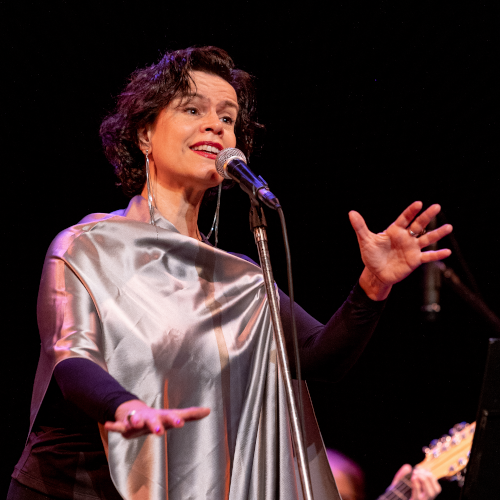
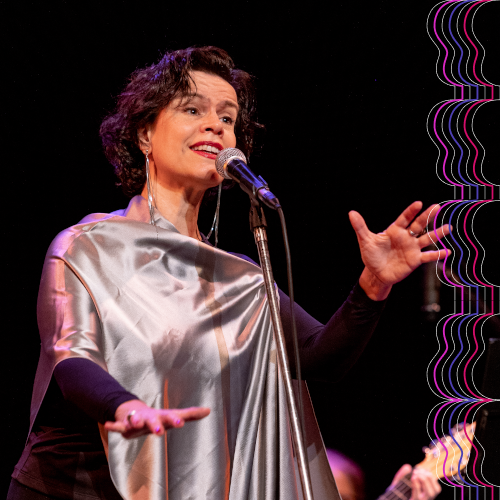
feat: :sparkles: Atualiza elementos gráficos para a nova identidade visual

Changed region(s): [[0.84, 0.0, 1.0, 1.0]]

diff --git a/index.html b/index.html
@@ -12,11 +12,13 @@
     <link rel="stylesheet" href="https://cdnjs.cloudflare.com/ajax/libs/animate.css/3.7.2/animate.min.css" integrity="sha512-doJrC/ocU8VGVRx3O9981+2aYUn3fuWVWvqLi1U+tA2MWVzsw+NVKq1PrENF03M+TYBP92PnYUlXFH1ZW0FpLw==" crossorigin="anonymous" referrerpolicy="no-referrer" />
     <script src="https://cdnjs.cloudflare.com/ajax/libs/wow/1.1.2/wow.min.js" integrity="sha512-Eak/29OTpb36LLo2r47IpVzPBLXnAMPAVypbSZiZ4Qkf8p/7S/XRG5xp7OKWPPYfJT6metI+IORkR5G8F900+g==" crossorigin="anonymous" referrerpolicy="no-referrer"></script>
     <!-- OFV stuff -->
-    <link href="https://fonts.googleapis.com/css2?family=Lato:wght@300;400;700&display=swap" rel="stylesheet">
+    <link rel="preconnect" href="https://fonts.googleapis.com">
+    <link rel="preconnect" href="https://fonts.gstatic.com" crossorigin>
+    <link href="https://fonts.googleapis.com/css2?family=Ubuntu:ital,wght@0,300;0,400;0,500;0,700;1,300;1,400;1,500;1,700&display=swap" rel="stylesheet">
     <link rel="stylesheet" href="ofv.css">
     
     <title>Orquestra Filarmônica de Violas</title>
-    <link rel="icon" type="image/x-icon" href="/img/favicon.ico">
+    <link rel="icon" type="image/png" href="/img/favicon.png">
     <meta name="description" content="Formado apenas por violas e com mais de 20 anos de trajetoria, o grupo tem 3 albuns lançados e é reconhecido por expandir as fronteiras do instrumento.">
     <meta name="keywords" content="orquestra de viola, orquestra de viola caipira, orquestra de viola de Campinas, viola, viola caipira, música caipira, orquestra, música, Ivan Vilela, João Paulo Amaral, Encanto das Águas, música brasileira, Campinas - SP">
   </head>
@@ -55,14 +57,13 @@
             </div>
         </div>
     </section>     
-    <section id="texto1">
+    <section id=" ">
 
         <div class="container py-5 px-5 px-md-3">
             <div class="row">
                 <div class="col">
-                    <h2 class="mb-4 mb-lg-5">Orquestra Filarmônica de Violas 20 anos</h2>
-                    <p>Em comemoração aos seus 20 anos de atividades, a Orquestra Filarmônica de Violas traz espetáculo com um resumo da história do grupo, reunindo clássicos do cancioneiro caipira e da MPB, além de composições de seus integrantes. No repertório, "Vide Vida Marvada", de Rolando Boldrin, "Fé Cega, Faca Amolada", de Milton Nascimento e Fernando Brant, "Lamento Sertanejo", de Gilberto Gil e Dominguinhos, "Tocando em Frente", de Almir Sater e Renato Teixeira, entre outros arranjos que trazem uma atmosfera de profunda emoção e encantamento ao público.</p>
-                    <p>Desde 2011 sob direção artística de João Paulo Amaral, a Filarmônica de Violas é reconhecida como o mais inovador grupo musical em seu segmento, tendo em 2022 recebido o Prêmio Inezita Barroso da Alesp. Segundo o maestro Nelson Ayres "A Filarmônica já tem atrás de si uma história brilhante, em cada nota ponteada ouve-se aquilo que é a grande marca do grupo: música feita com paixão."</p>
+                    <p>Chegando ao seus 24 anos de atividade, a Orquestra Filarmônica de Violas traz em sua trajetória o reconhecimento da crítica e público.</p>
+                    <p>Desde 2011 sob direção artística de João Paulo Amaral, a Filarmônica de Violas é considerada como o mais inovador grupo musical em seu segmento, tendo em 2022 recebido o Prêmio Inezita Barroso da Alesp. Segundo o maestro Nelson Ayres "A Filarmônica já tem atrás de si uma história brilhante, em cada nota ponteada ouve-se aquilo que é a grande marca do grupo: música feita com paixão."</p>
                 </div>
             </div>
         </div>
@@ -105,6 +106,7 @@
                 <div class="col">
                     <p>O segundo fator diferencial da Filarmônica é o desenvolvimento musical dos integrantes, processo gradual de amadurecimento técnico e individual dos violeiros e violeiras motivado pelo crescente nível dos arranjos propostos. Ao longo dos anos, parte dos integrantes da formação inicial se profissionalizou na música. Ao mesmo tempo, outros músicos ou estudantes da viola ingressaram posteriormente atraídos pelo perfil artístico da Filarmônica. Essas transformações alimentaram o próprio ciclo natural de motivação e evolução da orquestra.</p>
                     <p>Ao longo dos seus mais de 20 anos de existência, o grupo gravou três álbuns, recebeu diversos prêmios, indicações, homenagens, participou de festivais e realizou apresentações em espaços como a Sala São Paulo, unidades do Sescs e Sesi, teatros e centros culturais de diversas cidades, além de tocar ou gravar com nomes como Tinoco, Irmãs Galvão, Ana Luiza, Ná Ozetti, Suzana Salles, Paulo Freire, Renato Braz, Tetê Espíndola, Ana Gilli, Lenine Santos, Nailor Proveta, Toninho Ferragutti, Ricardo Herz, Alexandre Ribeiro, Chrystian Dozza e Fabio Presgrave.</p>
+                    <p>Atualmente a Orquestra apresenta um espetáculo com um resumo da história do grupo, reunindo clássicos do cancioneiro caipira e da MPB, além de composições de seus integrantes. No repertório, “Vide Vida Marvada”, de Rolando Boldrin, “Fé Cega, Faca Amolada”, de Milton Nascimento e Fernando Brant, “Lamento Sertanejo”, de Gilberto Gil e Dominguinhos, “Tocando em Frente”, de Almir Sater e Renato Teixeira, entre outros arranjos que trazem uma atmosfera de profunda emoção e encantamento ao público. Além disso, o grupo já planeja o repertório que fará parte do seu próximo álbum, a ser produzido em breve.</p>
                 </div>
             </div>
         </div>
@@ -117,7 +119,7 @@
             <div class="row">
                 <div class="col">
                     <h3 class="mb-5">Série de concertos comemorativos com convidados especiais</h3>
-                    <p>A série de concertos de 20 anos vem acontecendo desde agosto de 2022. Alguns dos concertos contaram com participações especiais de artistas como o acordeonista Toninho Ferragutti, a cantora Ana Luiza e o violeiro Ivan Vilela.</p>
+                    <p>Em 2022, o grupo realizou uma série de concertos comemorativos de 20 anos. Alguns dos concertos contaram com participações especiais de artistas como o acordeonista Toninho Ferragutti, a cantora Ana Luiza e o violeiro Ivan Vilela.</p>
                 </div>
             </div>
         </div>

diff --git a/ofv.css b/ofv.css
@@ -1,6 +1,6 @@
 body {
   background: #fff;
-  font-family: 'Lato';
+  font-family: 'Ubuntu';
 }
 
 h1, h2, h3, h4 {
@@ -58,7 +58,7 @@ nav { background-color: #000; }
 }
 
 #contato {
-    background: #210e27;
+    background: #210e27 url("img/reverb3.png");
     color: #fff;
     font-size: 1.5em;
     text-align: center;
@@ -72,6 +72,13 @@ nav { background-color: #000; }
     display: block;
 }
 
+#texto1 {
+  background: url("img/reverb1.png");
+}
+
+#texto3 {
+  background: url("img/reverb2.png");
+}
 
 @media (min-width: 992px) {
 
@@ -98,6 +105,8 @@ nav { background-color: #000; }
   #contato {
     font-size: 2em;
   }
+
+
 
   
   #contato h4 {
